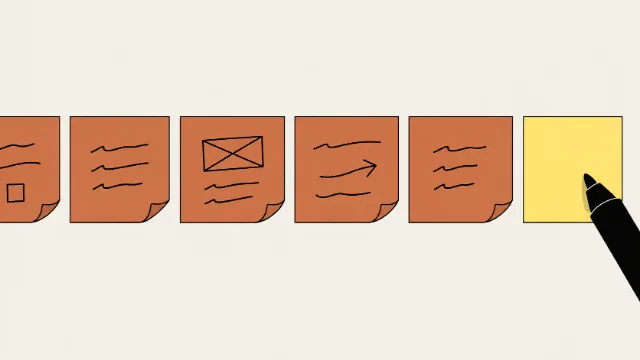
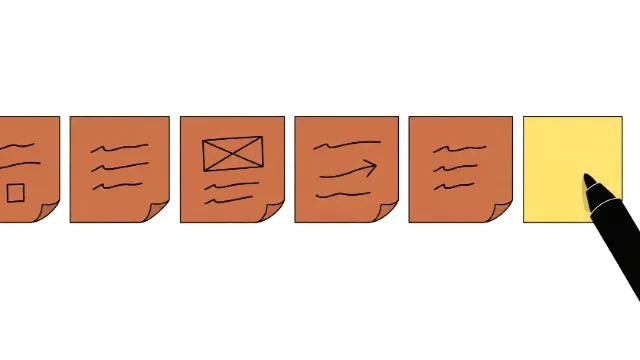
Articles: a second column on desktop, and the sticky-note drawing on white
From 72rem the five articles are two columns. The text keeps its 620px
measure on the left; scenes, the pull, the splits, and the Design
psychology note float into a margin beside it (548px at 1440) instead
of stopping the column. Rails, flows, and number rows span both at
--col-full. The hero puts the feature drawing, or the loop, beside the
title. At 1440 the pages run 5% to 29% shorter: 7580 -> 5349 on "The
hardest thing I've designed is what's next". Scoped to the articles by
.writing-progress, so the case studies that use .writing-measure are
unchanged; below 72rem nothing moves.

The sticky-note feature on that article sat on a cream wall inside the
tan hero. Its wall is lifted to white, wall-coloured pixels only, so the
notes, the yellow, and the pen keep their colour; the index card cut from
the same drawing goes with it, and the alt text says white wall.

style.css buster to 20261030p on the 20 pages that load it. The fast six
pass; the six browser checks pass scoped to the five articles and the
writing index.

diff --git a/style.css b/style.css
@@ -7043,6 +7043,89 @@ p.try-live {
 }
 
 
+/* THE MARGIN, since 2026-10-30 (Adam: "take full advantage of the two
+   column layout ... so there's less vertical scrolling"; "it doesn't have
+   to be an image"). At 1440 an essay's text is 620px on the frame's left
+   edge and the 550px beside it was empty from the dek to the Related
+   list, while every picture, pull and comparison stopped the column to
+   sit in it. From 72rem the essay is two columns: the text keeps its
+   measure, and the things a reader looks at beside the argument rather
+   than read along it move into a margin to its right, Tufte's sidenote.
+
+   WHAT GOES IN THE MARGIN: a scene (one drawing or photograph and its
+   caption), the pull, a split (two short lists behind two rules), and the
+   Design psychology note. Each is a float with a negative right margin as
+   wide as itself plus the gap, so it takes no room from the text's line
+   boxes and starts level with the line after the block it follows. clear:
+   right stacks two that land close together rather than overlapping them.
+
+   WHAT SPANS: a rail, a flow, and a number row are read across, so they
+   stay in the column, at --col-full, under both columns, and clear both, so a margin item above one ends before it starts. The
+   column is a flow root, so a margin item that outruns the last paragraph
+   still pushes the footer down.
+
+   The widths are percentages of .writing-measure, which is the 52ch
+   measure here, and cqi of the essay column (.case-narrow), so the margin
+   is the column less the measure less --space-4xl, whatever the type
+   does: 548px at 1440 and 420 at 72rem, where it starts. Below 72rem it
+   would be under 420, a split's two lists at under 190 each, so the page
+   is one column as it was; a phone sees nothing move.
+
+   THE HERO TAKES THE SAME TWO COLUMNS: kicker, title, dek and Listen on
+   the measure, the feature drawing in the margin, centered on them. The
+   drawing was 832x468 under the dek; beside it, it is the margin's width,
+   and the hero is about 470px shorter. The hero column carries the
+   essay's --text-lg so its 52ch is the body's 620px and the two margins
+   start on one line; every child sets its own size.
+
+   ONLY THE ARTICLES. The case studies and the lab pages use
+   .writing-measure too, and they are not this layout. The progress line
+   is the articles' alone, so every rule here starts from it. */
+@media (min-width: 72rem) {
+  .writing-progress ~ main .writing-measure { display: flow-root; }
+  .writing-progress ~ main .writing-measure > .writing-scene,
+  .writing-progress ~ main .writing-measure > .writing-pull,
+  .writing-progress ~ main .writing-measure > .dp-note,
+  .writing-progress ~ main .writing-measure > .writing-figure:has(> .writing-split) {
+    float: right;
+    clear: right;
+    box-sizing: border-box;
+    width: calc(100cqi - 100% - var(--space-4xl));
+    max-width: none;
+    margin: var(--space-xs) calc(100% - 100cqi) var(--space-2xl) 0;
+  }
+  .writing-progress ~ main .writing-measure > .writing-rail,
+  .writing-progress ~ main .writing-measure > .writing-figure:not(.writing-scene):not(:has(> .writing-split)) { clear: both; }
+  /* At 832 a rail of three, a flow, or a number row left a 384px strip
+     of the margin empty beside it, the one place on the page that was
+     neither two columns nor one band. Here they all take the frame. */
+  .writing-progress ~ main .writing-measure > .writing-rail:not(.writing-rail--scenes):not(:has(> .writing-rail-steps > li:nth-child(4))),
+  .writing-progress ~ main .writing-measure > .writing-figure:has(> .writing-flow, > .writing-facts) { width: var(--col-full); }
+  /* The split's two lists sit side by side in the margin at about 200px
+     each from 72rem; its rules keep them apart. */
+  .writing-progress ~ main .writing-measure > .writing-figure > .writing-split { grid-template-columns: 1fr 1fr; }
+  /* In the margin the pull is the page's display line, so it takes the
+     step above the one it had in the column, between the same two rules. */
+  .writing-progress ~ main .case-section .writing-measure > .writing-pull p { font-size: var(--text-3xl); }
+
+  .writing-progress ~ main .case-hero .case-narrow:has(> .writing-feature, > .writing-loop) {
+    font-size: var(--text-lg);
+    display: grid;
+    grid-template-columns: var(--measure) minmax(0, 1fr);
+    column-gap: var(--space-4xl);
+    align-items: start;
+  }
+  .writing-progress ~ main .case-hero .case-narrow:has(> .writing-feature, > .writing-loop) > * { grid-column: 1; max-width: none; }
+  .writing-progress ~ main .case-hero .case-narrow:has(> .writing-feature, > .writing-loop) > .build-dek { margin-bottom: 0; }
+  .writing-progress ~ main .case-hero .case-narrow > .writing-feature,
+  .writing-progress ~ main .case-hero .case-narrow > .writing-loop {
+    grid-column: 2;
+    grid-row: 1 / span 4;
+    align-self: center;
+    margin: 0;
+  }
+}
+
 /* The index groups the articles into three collections: a drawn mark, an
    eyebrow, then the list. The one-line gloss that sat between the eyebrow
    and the list came out on 2026-10-30; the eyebrow and the article deks say

diff --git a/writing/index.html b/writing/index.html
@@ -94,7 +94,7 @@
   <link rel="stylesheet" href="../color.css?v=12" />
   <link rel="stylesheet" href="../shell.css?v=7" />
   <link rel="stylesheet" href="../type.css?v=8" />
-  <link rel="stylesheet" href="../style.css?v=20261030o" />
+  <link rel="stylesheet" href="../style.css?v=20261030p" />
   <link rel="stylesheet" href="../site-nav.css?v=20261030b" />
   <link rel="stylesheet" href="index.css?v=3" />
   <script src="../site-nav.js?v=20260906a" defer></script>
@@ -325,7 +325,7 @@
         <ol class="writing-list writing-list--pair">
           <li class="writing-item">
             <a class="writing-link" href="my-next-design-challenge.html">
-              <img class="writing-card" src="../img/writing/my-next-design-challenge-card.webp?v=2" srcset="../img/writing/my-next-design-challenge-card.webp?v=2 640w, ../img/writing/my-next-design-challenge.webp?v=2 1600w" sizes="(max-width: 767.98px) 100vw, 18rem" width="640" height="360" alt="" decoding="async" />
+              <img class="writing-card" src="../img/writing/my-next-design-challenge-card.webp?v=3" srcset="../img/writing/my-next-design-challenge-card.webp?v=3 640w, ../img/writing/my-next-design-challenge.webp?v=3 1600w" sizes="(max-width: 767.98px) 100vw, 18rem" width="640" height="360" alt="" decoding="async" />
               <div class="writing-text">
                 <h3 class="writing-title">The hardest thing I&rsquo;ve designed is what&rsquo;s next</h3>
                 <p class="writing-dek">After twenty years in design, I&rsquo;m applying the process to my own career: researching, experimenting, and finding a way forward as AI changes the profession.</p>

diff --git a/writing/my-next-design-challenge.html b/writing/my-next-design-challenge.html
@@ -112,7 +112,7 @@
   <link rel="stylesheet" href="../color.css?v=12" />
   <link rel="stylesheet" href="../shell.css?v=7" />
   <link rel="stylesheet" href="../type.css?v=8" />
-  <link rel="stylesheet" href="../style.css?v=20261030o" />
+  <link rel="stylesheet" href="../style.css?v=20261030p" />
   <link rel="stylesheet" href="../site-nav.css?v=20261030b" />
   <link rel="stylesheet" href="../read-aloud.css?v=7" />
   <link rel="stylesheet" href="../related.css?v=2" />
@@ -289,7 +289,7 @@
         <h1 class="case-title">The hardest thing I&rsquo;ve designed is what&rsquo;s next</h1>
         <p class="build-dek">Twenty years into my design career, I&rsquo;m turning the process on myself: figuring out where I belong in a profession that&rsquo;s changing faster than ever.</p>
         <figure class="writing-feature">
-          <img src="../img/writing/my-next-design-challenge.webp?v=2" width="1600" height="900" alt="A row of terracotta sticky notes stuck in a line across a cream wall, each carrying a few quick black marker scribbles, ending at the right in one blank butter-yellow note with a black marker pen resting its tip on it." fetchpriority="high" decoding="async" />
+          <img src="../img/writing/my-next-design-challenge.webp?v=3" width="1600" height="900" alt="A row of terracotta sticky notes stuck in a line across a white wall, each carrying a few quick black marker scribbles, ending at the right in one blank butter-yellow note with a black marker pen resting its tip on it." fetchpriority="high" decoding="async" />
         </figure>
       </div>
     </header>

diff --git a/prototype/dispatch-cockpit.html b/prototype/dispatch-cockpit.html
@@ -116,7 +116,7 @@
   <link rel="stylesheet" href="../color.css?v=12" />
   <link rel="stylesheet" href="../shell.css?v=7" />
   <link rel="stylesheet" href="../type.css?v=8" />
-  <link rel="stylesheet" href="../style.css?v=20261030o" />
+  <link rel="stylesheet" href="../style.css?v=20261030p" />
   <link rel="stylesheet" href="../site-nav.css?v=20261030b" />
   <!-- The chapters arrive as they are read. See reveal.css for why this is
        its own pair of files rather than style.css's .reveal. -->

diff --git a/case-study/door-county-found.html b/case-study/door-county-found.html
@@ -96,7 +96,7 @@
   <link rel="stylesheet" href="../color.css?v=12" />
   <link rel="stylesheet" href="../shell.css?v=7" />
   <link rel="stylesheet" href="../type.css?v=8" />
-  <link rel="stylesheet" href="../style.css?v=20261030o" />
+  <link rel="stylesheet" href="../style.css?v=20261030p" />
   <link rel="stylesheet" href="../site-nav.css?v=20261030b" />
   <!-- The chapters arrive as they are read. See reveal.css for why this is
        its own pair of files rather than style.css's .reveal. -->

diff --git a/case-study/faunaform.html b/case-study/faunaform.html
@@ -95,7 +95,7 @@
   <link rel="stylesheet" href="../color.css?v=12" />
   <link rel="stylesheet" href="../shell.css?v=7" />
   <link rel="stylesheet" href="../type.css?v=8" />
-  <link rel="stylesheet" href="../style.css?v=20261030o" />
+  <link rel="stylesheet" href="../style.css?v=20261030p" />
   <link rel="stylesheet" href="../site-nav.css?v=20261030b" />
   <!-- The chapters arrive as they are read. See reveal.css for why this is
        its own pair of files rather than style.css's .reveal. -->

diff --git a/case-study/lucy-learns.html b/case-study/lucy-learns.html
@@ -97,7 +97,7 @@
   <link rel="stylesheet" href="../color.css?v=12" />
   <link rel="stylesheet" href="../shell.css?v=7" />
   <link rel="stylesheet" href="../type.css?v=8" />
-  <link rel="stylesheet" href="../style.css?v=20261030o" />
+  <link rel="stylesheet" href="../style.css?v=20261030p" />
   <link rel="stylesheet" href="../site-nav.css?v=20261030b" />
   <!-- The chapters arrive as they are read. See reveal.css for why this is
        its own pair of files rather than style.css's .reveal. -->

diff --git a/case-study/this-site.html b/case-study/this-site.html
@@ -94,7 +94,7 @@
   <link rel="stylesheet" href="../color.css?v=12" />
   <link rel="stylesheet" href="../shell.css?v=7" />
   <link rel="stylesheet" href="../type.css?v=8" />
-  <link rel="stylesheet" href="../style.css?v=20261030o" />
+  <link rel="stylesheet" href="../style.css?v=20261030p" />
   <link rel="stylesheet" href="../site-nav.css?v=20261030b" />
   <!-- The chapters arrive as they are read. See reveal.css for why this is
        its own pair of files rather than style.css's .reveal. -->

diff --git a/lab/designing-motion.html b/lab/designing-motion.html
@@ -105,7 +105,7 @@
   <link rel="stylesheet" href="../color.css?v=12" />
   <link rel="stylesheet" href="../shell.css?v=7" />
   <link rel="stylesheet" href="../type.css?v=8" />
-  <link rel="stylesheet" href="../style.css?v=20261030o" />
+  <link rel="stylesheet" href="../style.css?v=20261030p" />
   <link rel="stylesheet" href="../site-nav.css?v=20261030b" />
   <script src="../site-nav.js?v=20260906a" defer></script>
   <!-- The header logo plays a one-shot reveal clip on load and fades out

diff --git a/writing/what-does-a-design-system-need-once-ai-is-in-the-product.html b/writing/what-does-a-design-system-need-once-ai-is-in-the-product.html
@@ -108,7 +108,7 @@
   <link rel="stylesheet" href="../color.css?v=12" />
   <link rel="stylesheet" href="../shell.css?v=7" />
   <link rel="stylesheet" href="../type.css?v=8" />
-  <link rel="stylesheet" href="../style.css?v=20261030o" />
+  <link rel="stylesheet" href="../style.css?v=20261030p" />
   <link rel="stylesheet" href="../design-psychology.css?v=9" />
   <link rel="stylesheet" href="../site-nav.css?v=20261030b" />
   <link rel="stylesheet" href="../read-aloud.css?v=7" />

diff --git a/writing/who-decides-when-software-can-act-on-its-own.html b/writing/who-decides-when-software-can-act-on-its-own.html
@@ -112,7 +112,7 @@
   <link rel="stylesheet" href="../color.css?v=12" />
   <link rel="stylesheet" href="../shell.css?v=7" />
   <link rel="stylesheet" href="../type.css?v=8" />
-  <link rel="stylesheet" href="../style.css?v=20261030o" />
+  <link rel="stylesheet" href="../style.css?v=20261030p" />
   <link rel="stylesheet" href="../design-psychology.css?v=9" />
   <link rel="stylesheet" href="../site-nav.css?v=20261030b" />
   <link rel="stylesheet" href="../read-aloud.css?v=7" />

diff --git a/case-study/while-were-here.html b/case-study/while-were-here.html
@@ -96,7 +96,7 @@
   <link rel="stylesheet" href="../color.css?v=12" />
   <link rel="stylesheet" href="../shell.css?v=7" />
   <link rel="stylesheet" href="../type.css?v=8" />
-  <link rel="stylesheet" href="../style.css?v=20261030o" />
+  <link rel="stylesheet" href="../style.css?v=20261030p" />
   <link rel="stylesheet" href="../site-nav.css?v=20261030b" />
   <link rel="stylesheet" href="../read-aloud.css?v=7" />
   <script src="../site-nav.js?v=20260906a" defer></script>
